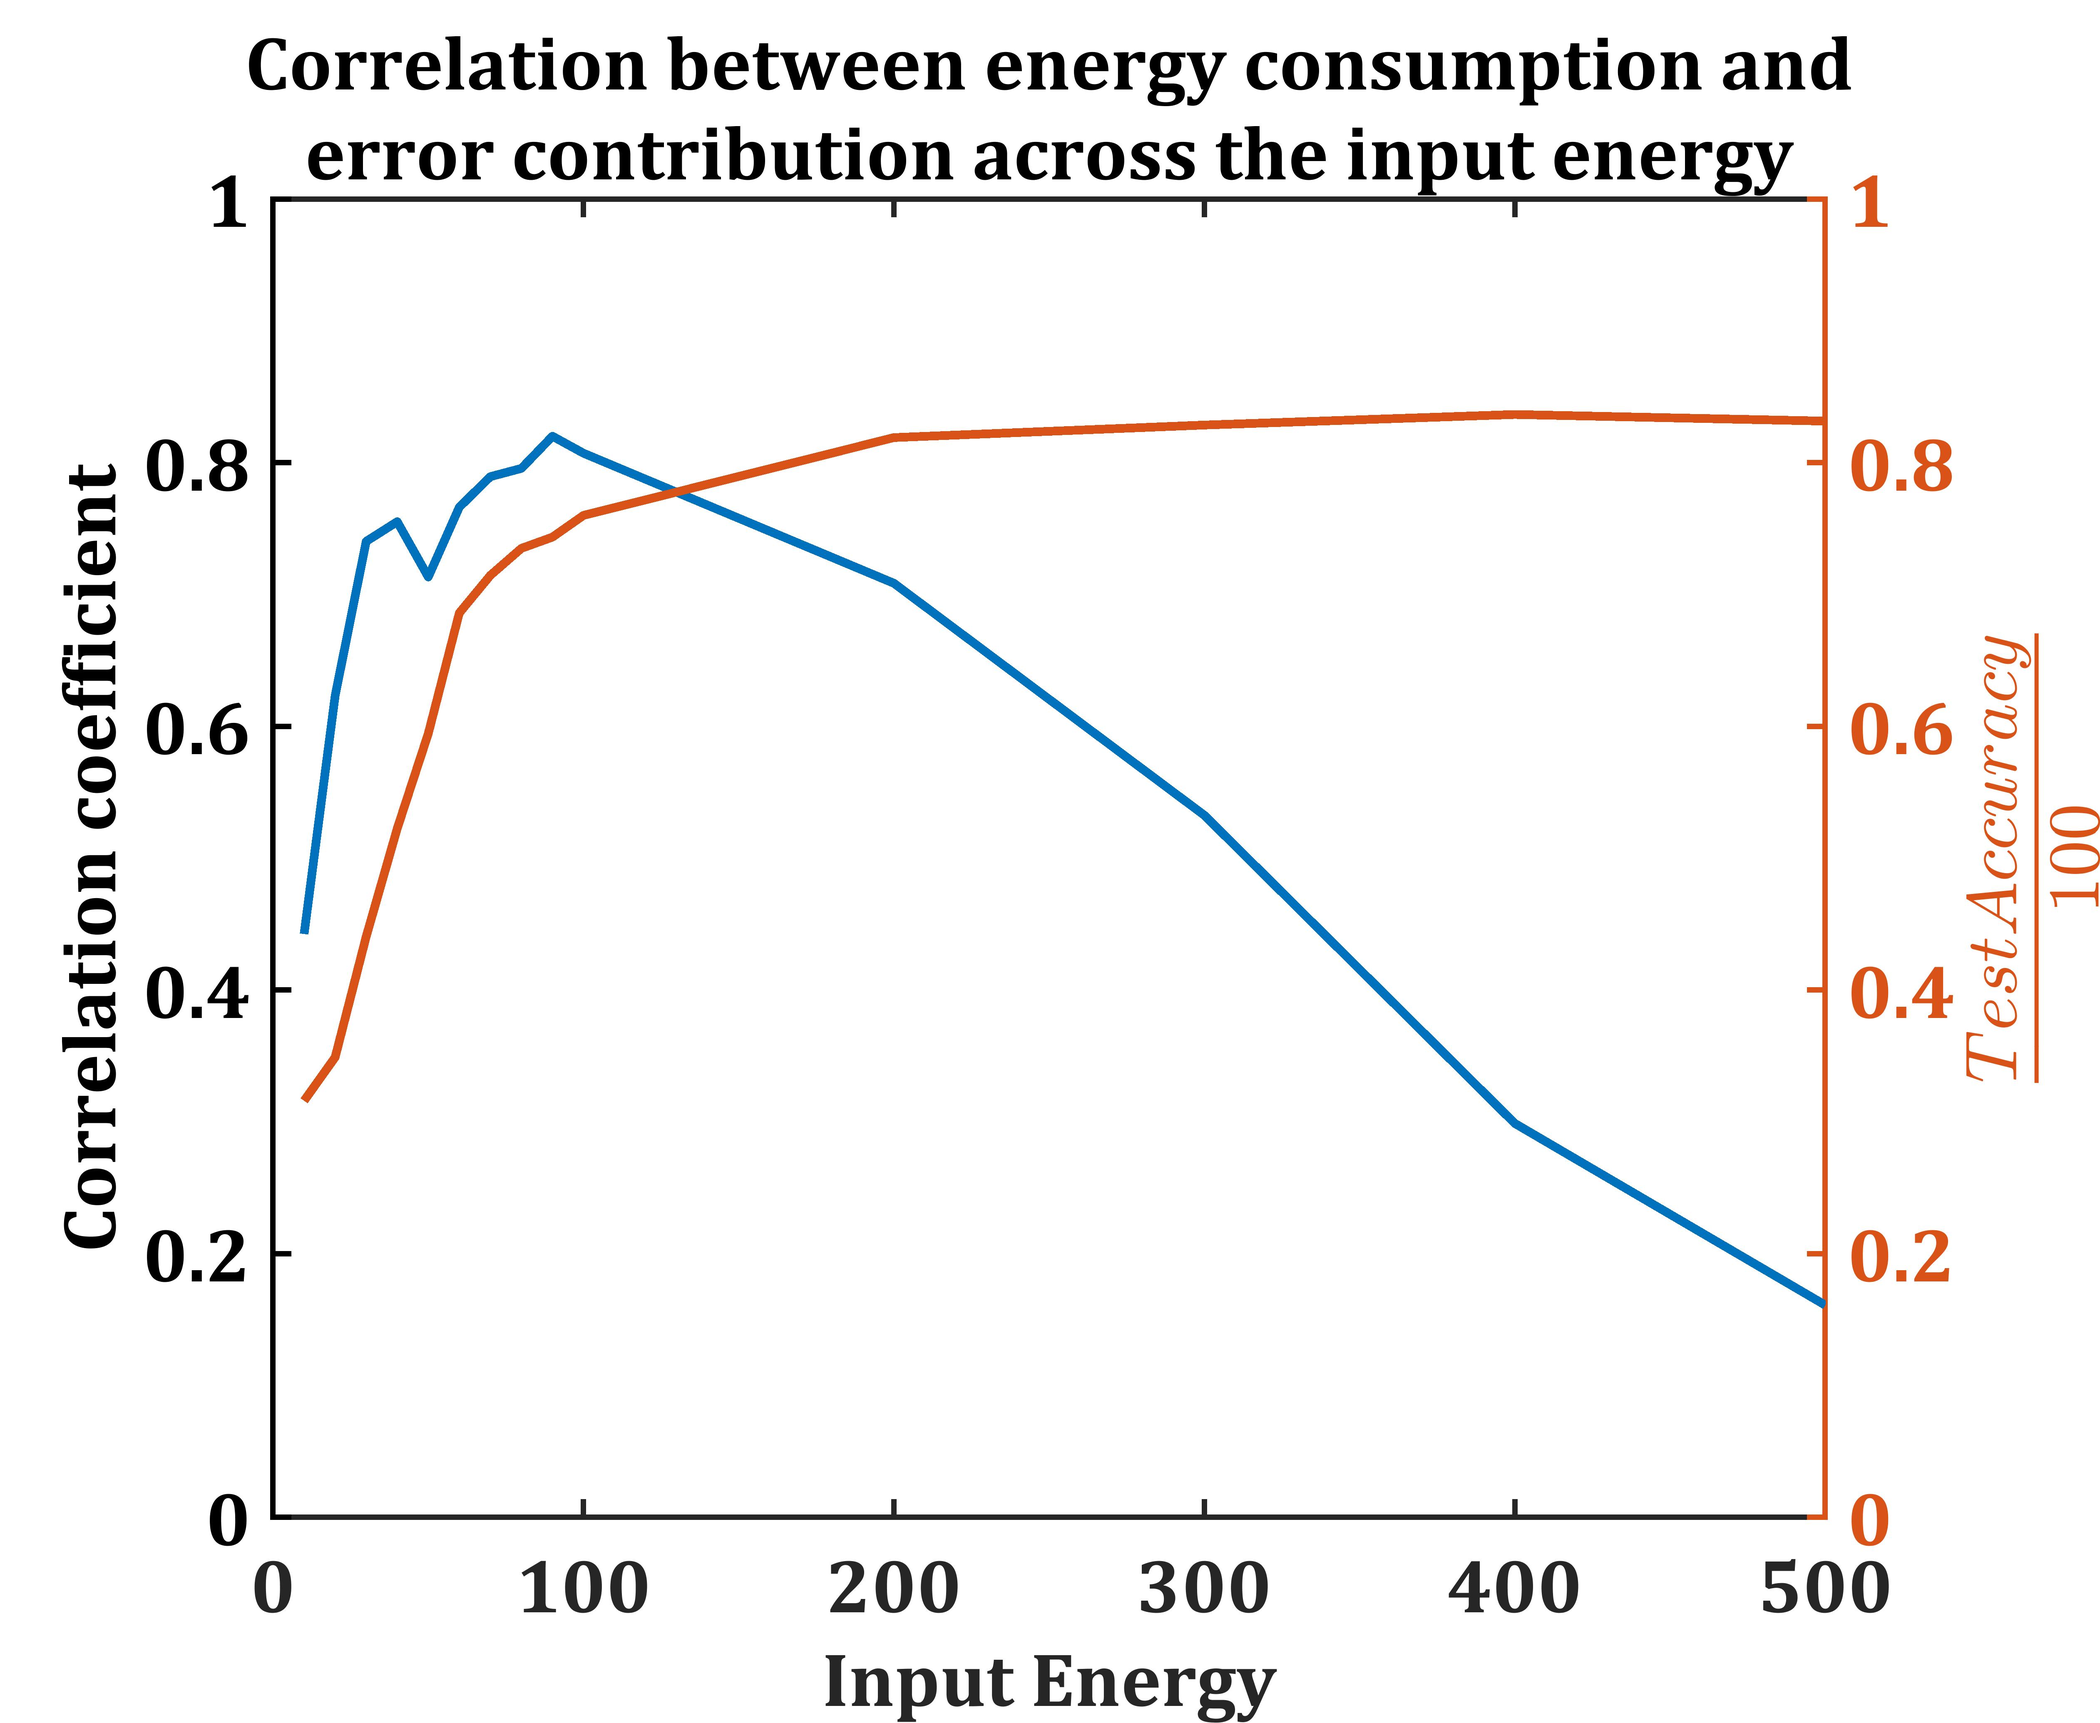
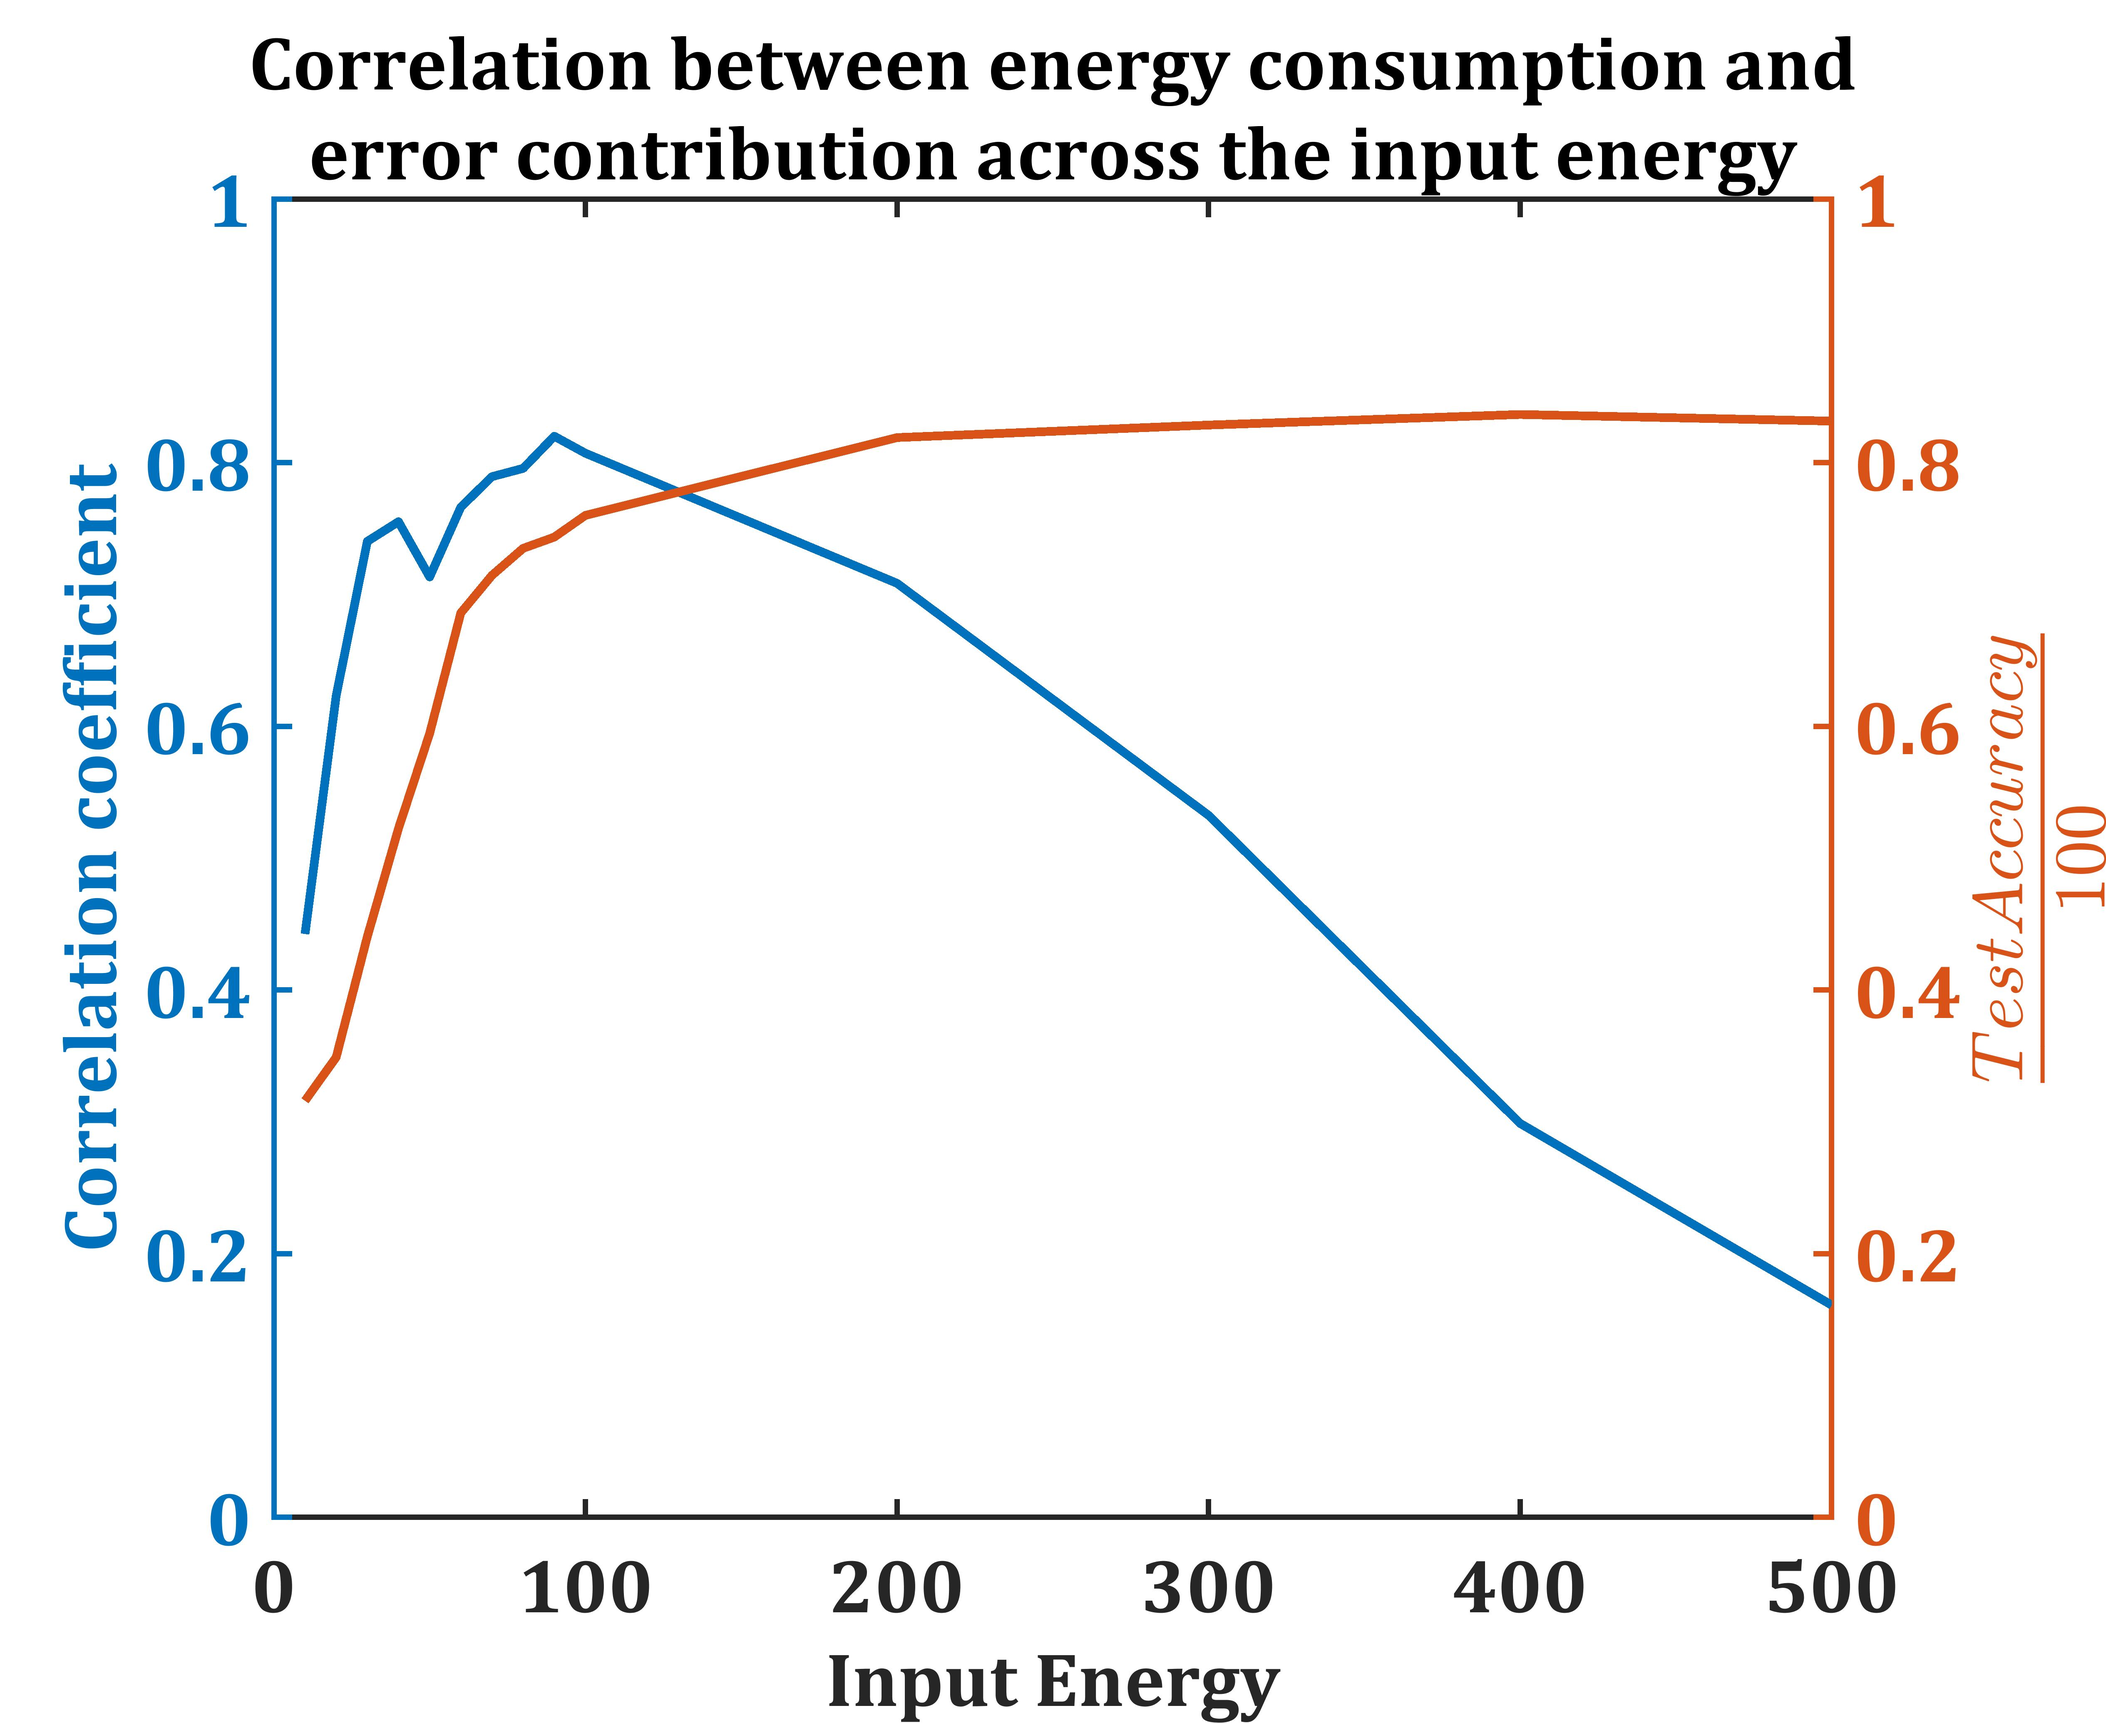
minor plotting changes corr study no R

diff --git a/MNIST_TASK3_Simultaneous/Without_R/task3_data/correlation_task3_noR.m b/MNIST_TASK3_Simultaneous/Without_R/task3_data/correlation_task3_noR.m
@@ -85,8 +85,9 @@ end
 
 NNew=mean(new_corr_coefficient,1);
 
-figure;(plot(en,NNew));ylim([0,1]);
+figure;
 yyaxis left
+(plot(en,NNew));ylim([0,1]);
 title([{'Correlation between energy consumption and'},{ 'error contribution across the input energy'}]);
 xlabel('Input Energy'); ylabel ('Correlation coefficient');
 yyaxis right
